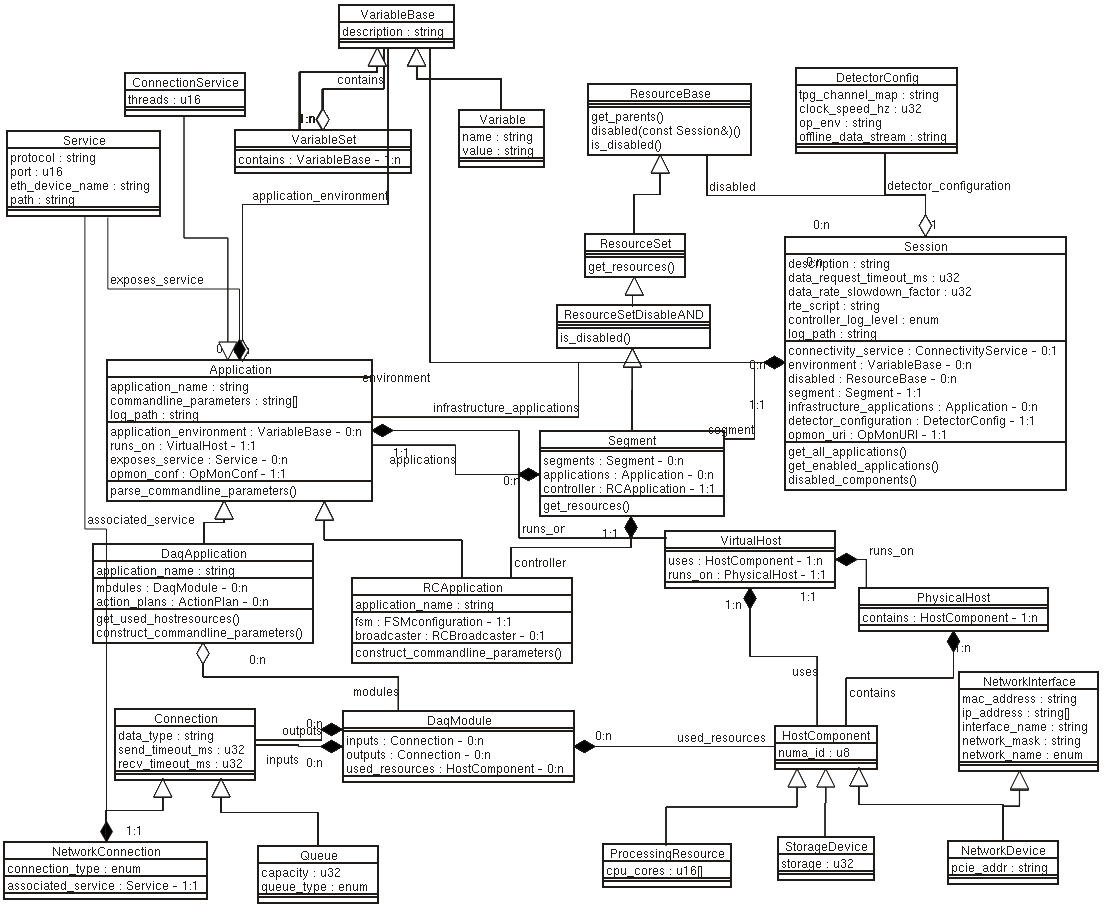
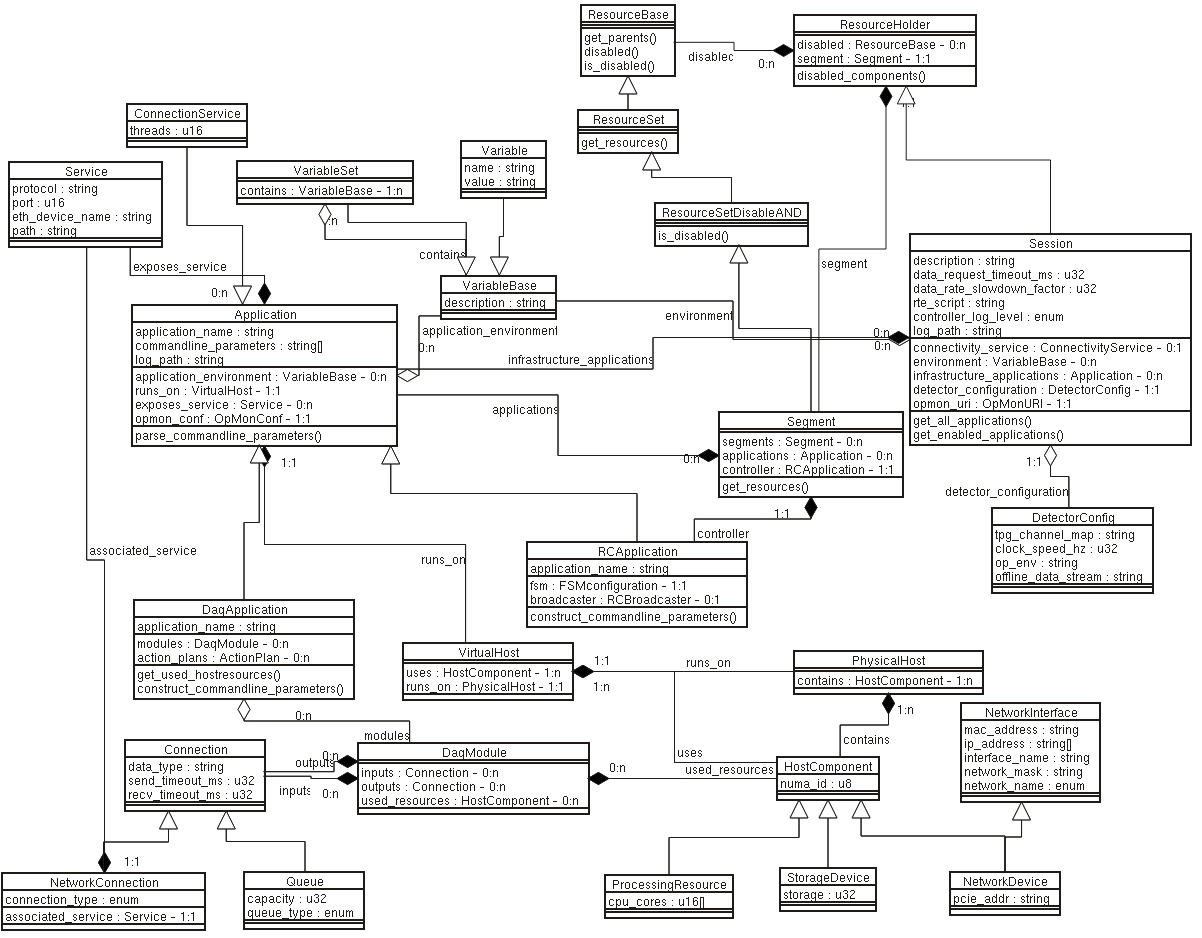
Documentation update

Changed region(s): [[0.0, 0.0, 1.0, 1.0], [0.308, 0.0, 0.4312, 0.092], [0.5543, 0.7054, 0.6159, 0.736]]

diff --git a/src/dalMethods.cpp b/src/dalMethods.cpp
@@ -131,6 +131,7 @@ check_segment(
 }
 } // namespace
 
+
 namespace dunedaq::confmodel {
 
 void
@@ -435,8 +436,10 @@ DetectorToDaqConnection::is_disabled(const std::set<std::string>& disabled_resou
 
 std::vector<const ResourceBase*>
 Segment::get_resources() const {
+  // All our contained segments are resources
   std::vector<const ResourceBase*> resources = to_resources(get_segments());
 
+  // Only a subset of our applications might be resources so check individually
   for (auto app: get_applications()) {
     TLOG_DBG(6) << "Checking " << app->UID();
     auto res=app->cast<const ResourceBase>();

diff --git a/docs/README.md b/docs/README.md
@@ -39,7 +39,8 @@ contained objects.
 
 **ResourceSet** is an abstract container of **Resource**s (actually items
 inheriting from **ResourceBase**) which can be disabled together. It
-is itself a Resource (so can be nested). It defines a pure virtual method `get_resources()` to get the list of contained resources. Developers should implement this method to extract any resources that need to be considered for determining the disabled state of the set from among the class's relationships.
+is itself a Resource (so can be nested). It defines a pure virtual method `get_resources()` to get the list of contained resources. Developers should implement this method to extract any resources that need to be considered for determining the disabled state of the set from among the class's relationships. The class may have relationships to other Resource derived
+objects that will be ignored for the disabled check.
 
 **ResourceSetDisableAND** is a container of **Resource**s which will
 be disabled if *all* of its **Resource**s are disabled. It provides a
@@ -59,27 +60,26 @@ directly or indirectly if all its components are disabled.
 
 The Resource disabled logic works on a single tree of **ResourceSets**
 and is currently tied to the **Session**
-object. The constructor of the **Session** object constructs a
-**DisabledResources** object passing a reference to itself.
+object. The constructor of the **Session**'s **ResourceHolder** object constructs a
+**DisabledResources** object passing a reference to the root **Segment**
+and the list of disabled resources from its `disabled` relationship.
 ⚠️**Any ResourceSet that is not referenced by a ResourceSet in the tree
 starting at the Session's segment relationship will not be considered
 by the disabling logic!**
 
 The **DisabledResources** constructor will configure itself using the
-tree of Resources starting with the Session's `segment` relationship
-and the list of disabled resources from its `disabled` relationship.
+tree of Resources and initial list of disabled Resources.
 To start with, the UID of each member of the list is inserted into a
 set and any 'contained' (using the `get_resources()` method) Resources
 are also disabled.
 
-A list of all ResourceSets in the tree starting from the Segment is
-generated by recursively iterating over all the Resources in the
-Segment and calling `get_resources()`.  Then it iterates over the list
-of **ResourceSet**s. If a ResourceSet is not currently in the disabled
-set, it will call the `is_disabled()` method to see if its state has
-been changed by the current content of the disabled set. It will
-repeat this procedure until an iteration that ends with the same
-number of disabled resources it started with.
+A list of all ResourceSets in the tree is generated by recursively
+calling `get_resources()` and iterating over all the ResourceSets.
+Then it iterates over the list of **ResourceSet**s. If a ResourceSet
+is not currently in the disabled set, it will call the `is_disabled()`
+method to see if its state has been changed by the current content of
+the disabled set. It will repeat this procedure until an iteration
+that ends with the same number of disabled resources it started with.
 
 
 ## Readout Map